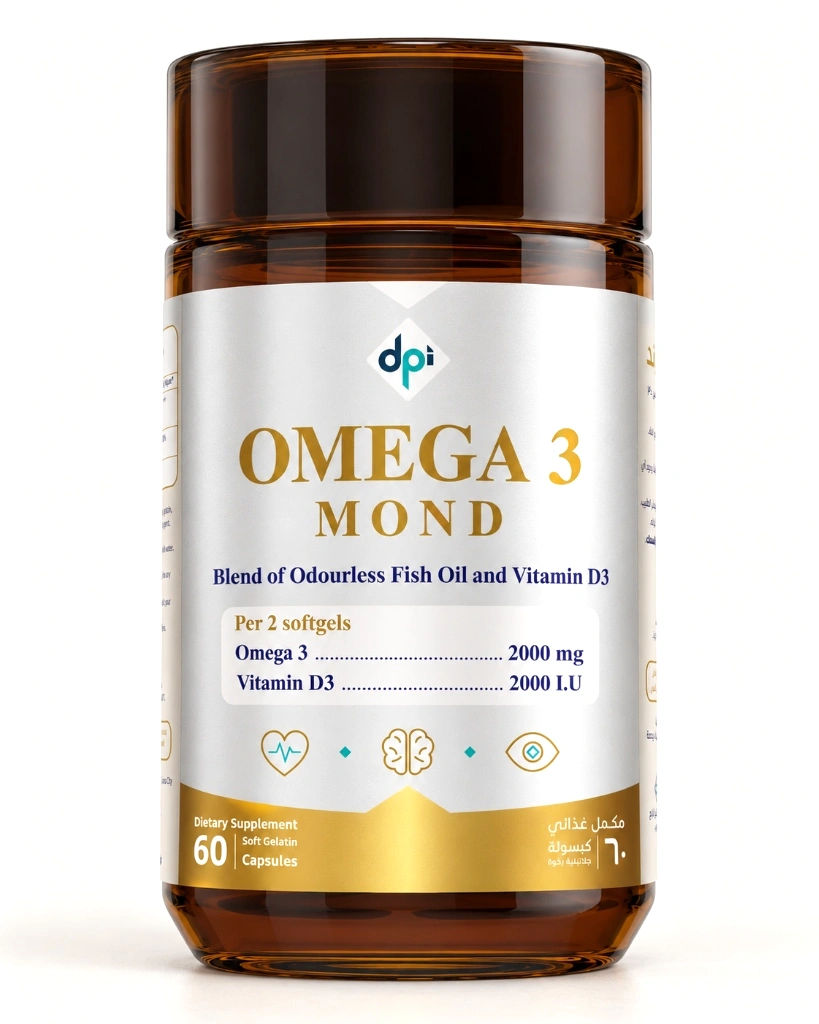
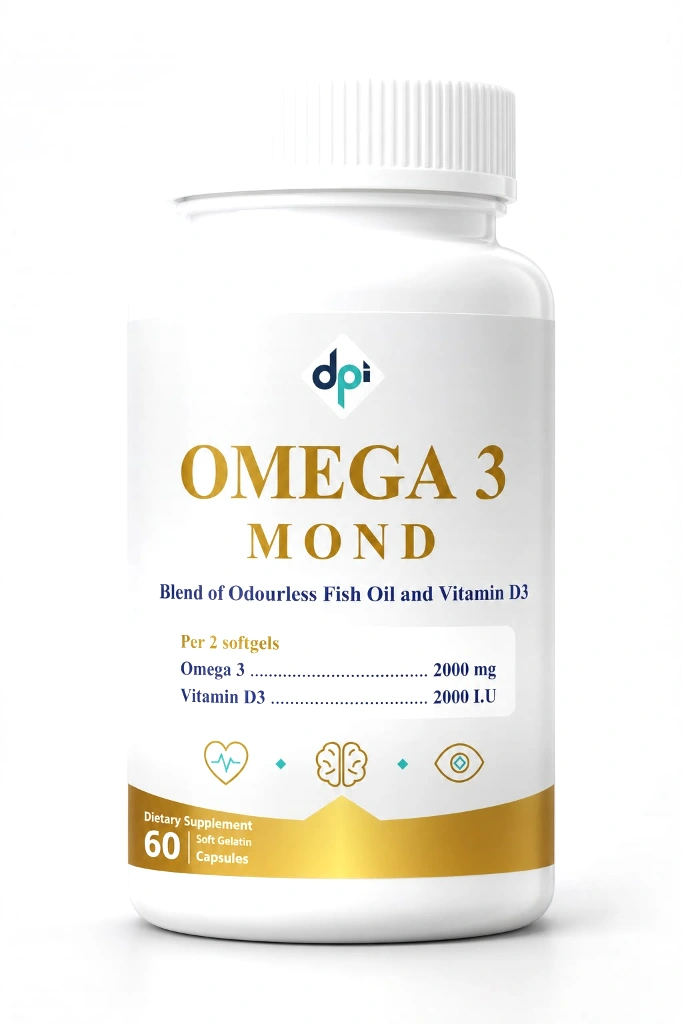
Update Omega 3 Mond pack asset to approved new packaging

diff --git a/QA.md b/QA.md
@@ -1,6 +1,15 @@
-# Verification record — 20 October 2026
+# Verification record — 26 October 2026
+
+## Omega 3 Mond packaging replacement
+
+- Replaced the `omega-mond.webp` asset with the owner's latest bottle packaging.
+- The new pack features the updated white bottle with ribbed cap, DPI brand mark, gold "OMEGA 3 MOND" typography, active declaration ("Blend of Odourless Fish Oil and Vitamin D3", 2000 mg Omega 3 / 2000 IU Vitamin D3 per 2 softgels), heart, brain & eye icons, and 60 soft gelatin capsules.
+- The studio gradient lighting was normalized to seamless pure white to eliminate square bounding box artifacts under CSS `mix-blend-mode: multiply` on the `#faf6ee` background, while preserving the natural bottle drop shadow.
+- The previous asset is preserved as `omega-mond-backup.webp`.
+- The production build was tested and confirmed successful.
 
 ## Royal Mond approved packaging replacement
+
 
 - Replaced the `royal-mond.webp` asset with the owner's latest `royal 2.png` image, converted to lossless WebP at its original 1000 px dimensions (221,162 bytes). The supplied design, camera view, reflections and 30-capsule count are preserved.
 - The shared image key updates both the product card and details dialog. Both pack-size fields now show 30 capsules. The total remains eight families.
